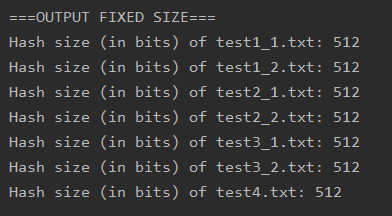
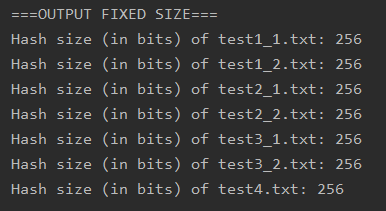
Update test

diff --git a/main.cpp b/main.cpp
@@ -127,7 +127,7 @@ void inputAnySize() {
 
 void inputFixedSize() {
     for (auto it = testingPaths.begin(); it != testingPaths.end(); ++it) {
-        std::cout << "Hash size (in bits) of " << *it << ": " << vladahasher.getHashFromFile("input/" + *it).length()*8 << "\n";
+        std::cout << "Hash size (in bits) of " << *it << ": " << vladahasher.getHashFromFile("input/" + *it).length()*4 << "\n";
     }
 }
 
